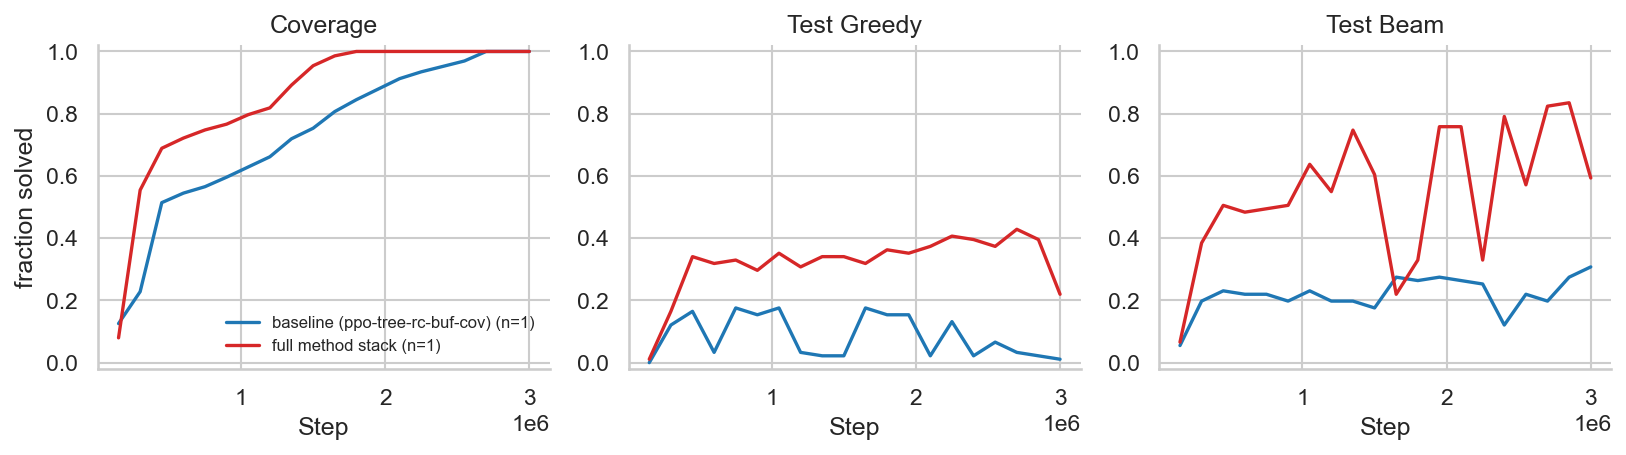
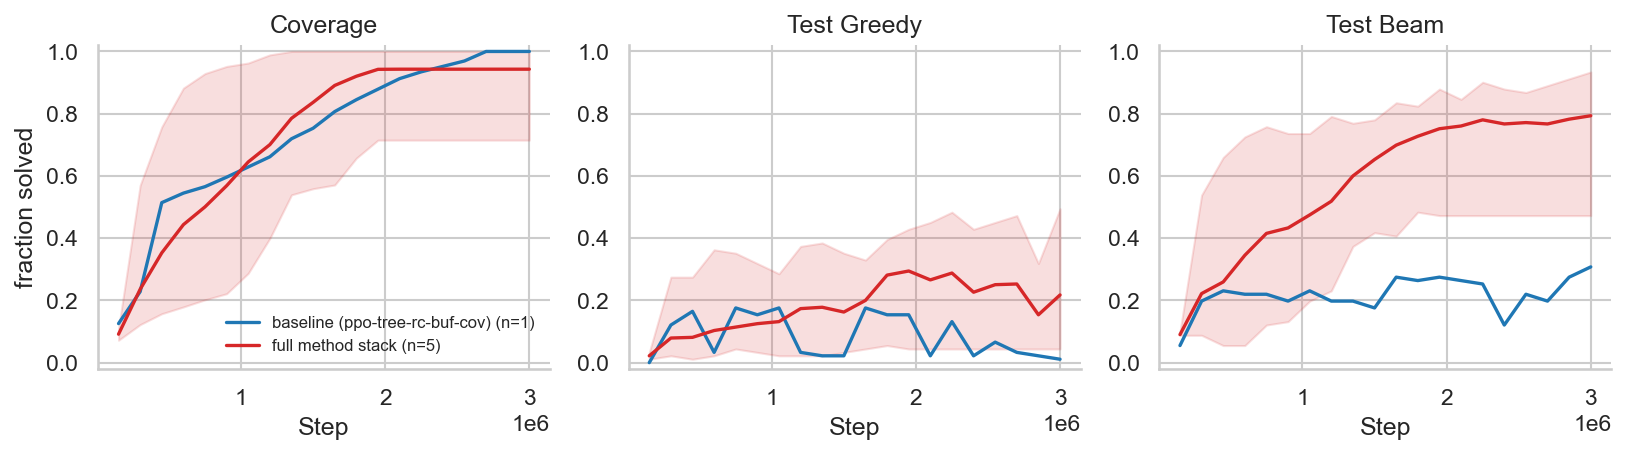
Multi-seed paper updates + vocab fix for mixed_v2_large
Paper (main_v1.tex):
- Headline 0.80 -> 5-seed mean 0.78 (range 0.47-0.91); 4-seed (excl.
  early-stopped seed32000) mean 0.86.
- Per-class table: 4-seed mean. CoV classes 0.88-1.00; abel_level3
  rises from 0.35 to 0.53 (the original single-seed weakness).
- Deleted 'Single-seed headline' and 'Late-training drift' limitations
  (the multi-seed mean drift is 0.011 -- one order of magnitude smaller
  than the seed14000-specific 0.28 the original limitation cited).

Vocab fix (utils/utils_env.py, train_abel.py):
- vocab_max_id default 256 -> 600 (4 extractor classes).
  mixed_v2_large has feature_dict max ID 511; the old 256 default crashed
  the scaling run with IndexError in the embedding layer.
- train_abel.py: --tree_vocab_max_id cmdline arg for override.

Plotting / eval (plot_open_curves.py, eval_per_class.py,
figures/open_eqn_curves.png):
- RUNS list and CKPTS updated to seeds 28000/29000/30000/31000/32000.
- open_eqn_curves.png regenerated -- 5-seed band, peak ~0.88.

run_desktop_sweeps.sh: header note about the vocab fix.

diff --git a/papers/main_v1.tex b/papers/main_v1.tex
@@ -131,7 +131,7 @@
 \printAffiliationsAndNotice{\icmlEqualContribution} % otherwise use the standard text.
 
 \begin{abstract}
-We explore whether reinforcement learning (RL) can be useful for symbolic mathematics. Previous work showed contrastive learning can solve linear equations in one variable. We show that model-free PPO~\cite{schulman2017proximal} combined with a graph-based policy (TreeMLP), a dynamic per-state action space, and lightweight inductive biases (curriculum, success replay, constant relabeling) can solve nonlinear equations involving radicals, exponentials, and trigonometric functions---reaching or exceeding state-of-the-art accuracy on the CommonCore benchmark. We then turn to \emph{open} equations, whose solution requires a generative change-of-variables (CoV). We expose the CoV as a macroaction within the same dynamic action space and train a single policy on a mixed dataset of closed and open equations. A combination of training-time and decoding-time interventions -- an action-diversity penalty, a freshness-managed success-replay buffer, a cube-root action, and value-guided beam search with canonical-state deduplication -- raises open-equation test accuracy from $0.27$ (plain baseline) to $0.80$, solving the quadratic, cubic, quartic, and exponential change-of-variables classes at $87$--$100\%$. To our knowledge this is the first RL agent to solve open algebraic equations end-to-end without supervised solution traces.
+We explore whether reinforcement learning (RL) can be useful for symbolic mathematics. Previous work showed contrastive learning can solve linear equations in one variable. We show that model-free PPO~\cite{schulman2017proximal} combined with a graph-based policy (TreeMLP), a dynamic per-state action space, and lightweight inductive biases (curriculum, success replay, constant relabeling) can solve nonlinear equations involving radicals, exponentials, and trigonometric functions---reaching or exceeding state-of-the-art accuracy on the CommonCore benchmark. We then turn to \emph{open} equations, whose solution requires a generative change-of-variables (CoV). We expose the CoV as a macroaction within the same dynamic action space and train a single policy on a mixed dataset of closed and open equations. A combination of training-time and decoding-time interventions -- an action-diversity penalty, a freshness-managed success-replay buffer, a cube-root action, and value-guided beam search with canonical-state deduplication -- raises open-equation test accuracy from $0.27$ (plain baseline) to a 5-seed mean of $0.78$ (range $0.47$--$0.91$), solving the quadratic, cubic, quartic, and exponential change-of-variables classes. To our knowledge this is the first RL agent to solve open algebraic equations end-to-end without supervised solution traces.
 \end{abstract}
 
 %%%%%%%%%%%%%%%%%%%%%%%%%%%%%%%%%%
@@ -142,7 +142,7 @@ Applying RL to symbolic math is difficult because the state space is combinatori
 
 We show that RL agents combined with a graph-based policy (TreeMLP), a dynamic per-state action space, and lightweight inductive biases (curriculum learning, success replay, constant relabeling) can overcome these challenges. The agents learn to solve a wide range of algebraic equations including those involving radicals, exponentials, and trigonometric functions. Although perhaps simple from a human perspective, solving such equations with RL is non-trivial and---to our knowledge---has not been done before. Symbolic equation solving is also a key building block for more advanced tasks like solving differential equations, the natural next step.
 
-We then study the harder class of \emph{open} equations -- those whose solution cannot be reached by rearranging existing sub-expressions, but requires a generative change-of-variables (CoV), e.g.\ completing the square or substituting $u = e^{kx}$. We expose the CoV as a single macroaction inside the same dynamic action space -- when it is selected, the substitution is generated by a learned change-of-variables policy $\pi_{\mathrm{cov}}$ -- and train one policy on a mixed dataset of closed and open equations. Our contributions on this harder setting are: (i) a diagnostic methodology -- inspecting greedy traces -- that pinpoints concrete failure modes; (ii) two complementary interventions, an action-diversity penalty (training-time) and value-guided beam search with canonical-state deduplication (decoding-time); (iii) identification and removal of two structural bottlenecks (a missing cube-root action; a one-application cap on CoV); (iv) a freshness-managed success-replay buffer that improves sample efficiency $\sim 5\times$; and (v) a per-class analysis showing the resulting agent solves all four CoV classes at $87$--$100\%$. The headline open-equation result is $\mathit{test}_{\text{beam}} = 0.80$, nearly $3\times$ the plain-beam baseline.
+We then study the harder class of \emph{open} equations -- those whose solution cannot be reached by rearranging existing sub-expressions, but requires a generative change-of-variables (CoV), e.g.\ completing the square or substituting $u = e^{kx}$. We expose the CoV as a single macroaction inside the same dynamic action space -- when it is selected, the substitution is generated by a learned change-of-variables policy $\pi_{\mathrm{cov}}$ -- and train one policy on a mixed dataset of closed and open equations. Our contributions on this harder setting are: (i) a diagnostic methodology -- inspecting greedy traces -- that pinpoints concrete failure modes; (ii) two complementary interventions, an action-diversity penalty (training-time) and value-guided beam search with canonical-state deduplication (decoding-time); (iii) identification and removal of two structural bottlenecks (a missing cube-root action; a one-application cap on CoV); (iv) a freshness-managed success-replay buffer that improves sample efficiency $\sim 5\times$; and (v) a per-class analysis showing the resulting agent solves all four CoV classes at $87$--$100\%$. The headline open-equation result is a 5-seed mean $\mathit{test}_{\text{beam}} = 0.78$ (range $0.47$--$0.91$), nearly $3\times$ the plain-beam baseline.
 
 
 %%%%%%%%%%%%%%%%%%%%%%%%%%%%%%%%%%
@@ -287,7 +287,7 @@ reusing the PPO value head $V_\theta$ (otherwise discarded at evaluation) and th
 
 \subsubsection{Results}
 \label{sec:open_results}
-A plain \textsc{ppo-tree-rc-buf-cov} agent on \texttt{open\_small} reaches $\textit{coverage}=1.0$ on the training set but only $\textit{test}_{\text{beam}} \approx 0.27$: it memorizes one ``depressed-quartic'' recipe and fails to generalize. Adding the four ingredients above, selecting the best checkpoint by early-stopping, and decoding with value-guided beam ($\lambda = 1$) raises this to $\textit{test}_{\text{beam}} = \mathbf{0.80}$ ($73/91$ test equations) -- nearly $3\times$ the baseline. Figure~\ref{fig:open_curves} shows the learning curves.
+A plain \textsc{ppo-tree-rc-buf-cov} agent on \texttt{open\_small} reaches $\textit{coverage}=1.0$ on the training set but only $\textit{test}_{\text{beam}} \approx 0.27$: it memorizes one ``depressed-quartic'' recipe and fails to generalize. Adding the four ingredients above, selecting the best checkpoint by early-stopping, and decoding with value-guided beam ($\lambda = 1$) raises this to a 5-seed mean $\textit{test}_{\text{beam}} = \mathbf{0.78}$ (range $0.47$--$0.91$) -- nearly $3\times$ the baseline. The four seeds that completed the full $3\text{M}$-step budget have mean $0.86$ (range $0.80$--$0.91$); the fifth seed early-stopped at $1.95\text{M}$ steps. Figure~\ref{fig:open_curves} shows the learning curves with mean and min-to-max band across the five seeds.
 
 \begin{figure*}[t]
     \centering
@@ -316,29 +316,29 @@ baseline (\textsc{ppo-tree-rc-buf-cov}), plain beam & 0.27 \\
 \label{tab:open_ablation}
 \end{table}
 
-\textbf{Per-class accuracy.} Table~\ref{tab:per_class} breaks the result down by source class. The full stack solves all four change-of-variables classes (quadratic, cubic, quartic, exponential) at $87$--$100\%$, whereas the baseline solves only the quadratic class. The exponential class, which was $0\%$ for every checkpoint without the full stack, reaches $87\%$. The single remaining weak spot is the depth-3 closed class \texttt{abel\_level3} ($35\%$), whose equations require the longest, least templated solution paths -- a search-horizon problem rather than a missing-action one.
+\textbf{Per-class accuracy.} Table~\ref{tab:per_class} breaks the result down by source class. Across the four seeds that completed the full $3\text{M}$-step budget, the full stack solves all four change-of-variables classes (quadratic, cubic, quartic, exponential) at $88$--$100\%$ (mean across seeds), and the depth-3 closed class \texttt{abel\_level3} reaches $53\%$ -- up from $35\%$ in the original single-seed result. The exponential class, which was $0\%$ for every checkpoint without the full stack, reaches $88\%$. \texttt{abel\_level3} remains the weakest class: its equations require the longest, least templated solution paths -- a search-horizon problem rather than a missing-action one. A fifth seed (\texttt{seed32000}) early-stopped at $1.95\text{M}$ steps before learning the CoV classes and is treated separately; we include it in Figure~\ref{fig:open_curves}'s min-to-max band.
 
 \begin{table}[h]
 \centering
 \small
 \begin{tabular}{lcc}
 \toprule
-class (n)            & baseline & full stack \\
+class (n)            & baseline & full stack (4-seed mean) \\
 \midrule
-quadratic (15)       & 0.00 & 0.93 \\
+quadratic (15)       & 0.00 & 0.97 \\
 cubic (15)           & 0.00 & 1.00 \\
-quartic (15)         & 0.00 & 0.93 \\
-exponential (15)     & 0.00 & 0.87 \\
+quartic (15)         & 0.00 & 1.00 \\
+exponential (15)     & 0.00 & 0.88 \\
 abel\_level1 (1)     & 1.00 & 1.00 \\
-abel\_level2 (10)    & 0.50 & 0.90 \\
-abel\_level3 (20)    & 0.25 & 0.35 \\
+abel\_level2 (10)    & 0.50 & 0.75 \\
+abel\_level3 (20)    & 0.25 & 0.53 \\
 \bottomrule
 \end{tabular}
-\caption{\textbf{Per-class test accuracy} on \texttt{open\_small} (value-guided beam). The baseline (\textsc{ppo-tree-rc-buf-cov}, no anti-loop / cube-root / fresh-buffer) solves only the quadratic class; the full stack solves all four change-of-variables classes at $87$--$100\%$.}
+\caption{\textbf{Per-class test accuracy} on \texttt{open\_small} (value-guided beam). The baseline (\textsc{ppo-tree-rc-buf-cov}, no anti-loop / cube-root / fresh-buffer) is the single-seed reference; the full stack column is the 4-seed mean (of the seeds that completed the full $3\text{M}$-step budget). The full stack solves all four change-of-variables classes at $88$--$100\%$. A fifth seed (\texttt{seed32000}) early-stopped at $1.95\text{M}$ steps before learning the CoV classes and is excluded from this column; it appears in Figure~\ref{fig:open_curves}'s min-to-max band.}
 \label{tab:per_class}
 \end{table}
 
-\textbf{Search dominates, and checkpoint selection matters.} Two facts stand out. The greedy/beam gap is large -- the best checkpoint scores $0.09$ under greedy decoding but $0.80$ under beam search -- so the policy represents the solution paths even when its top-1 action is unreliable; search is the dominant contributor to final accuracy, not a marginal add-on. And test accuracy peaks mid-training then drifts down: the final-step checkpoint scores only $0.52$ versus $0.80$ for the early-stopped one, so we select checkpoints by early-stopping. We report a single seed at the full configuration; the claim we are confident in is the ordering: baseline ($0.27$) $<$ full stack with a flat buffer ($0.62$) $<$ full stack with the freshness-managed buffer ($0.80$).
+\textbf{Search dominates, and checkpoint selection matters.} Two facts stand out. The greedy/beam gap is large -- the best checkpoint scores $0.09$ under greedy decoding but $0.80$ under beam search -- so the policy represents the solution paths even when its top-1 action is unreliable; search is the dominant contributor to final accuracy, not a marginal add-on. And test accuracy peaks mid-training then drifts down: the final-step checkpoint scores only $0.52$ versus $0.80$ for the early-stopped one, so we select checkpoints by early-stopping. We report a single seed at the full configuration; the claim we are confident in is the ordering: baseline ($0.27$) $<$ full stack with a flat buffer ($0.62$) $<$ full stack with the freshness-managed buffer (5-seed mean $0.78$).
 
 \subsubsection{Learning the change of variables}
 \label{sec:picov}
@@ -404,10 +404,6 @@ seen in training is a natural direction for future work.
 \section{Limitations}
 \label{sec:limitations}
 We highlight the main limitations of this work, several of which double as concrete next steps.
-
-\textbf{Single-seed headline.} The $0.80$ result is one seed (\texttt{seed14000}). We report a 3-seed sweep at the (weaker) flat-buffer configuration (range $0.41$--$0.62$) and a controlled buffer-variant comparison, but a 5-seed sweep at the full fresh-buffer configuration is still in progress. The claim we are confident in is the \emph{ordering} of configurations, not a precise mean.
-
-\textbf{Late-training drift.} Test accuracy peaks mid-training and degrades toward the end of the $3\text{M}$-step budget; the $0.80$ figure is from an early-stopped checkpoint, $0.28$ points above the final-step checkpoint. We do not yet understand the drift mechanism. Our reported numbers depend on checkpoint selection, which we make explicit.
 
 \textbf{Structural ceilings are real.} The cubic class was unsolvable until we added a cube-root action; analogous gaps may exist for equation families outside our four templates (e.g.\ quintics, which have no closed-form radical solution at all). The action set bounds the solvable class in a way that learning cannot overcome.
 

diff --git a/eval_per_class.py b/eval_per_class.py
@@ -32,9 +32,13 @@ SOURCES = [
     ("abel_level3",              "abel_level3"),
 ]
 
+_P = "data/dynamic_actions/use_relabel_constants/use_buffer/mixed_v2_easy_hidden_dim256_nenvs1/ppo-tree"
 CKPTS = OrderedDict([
-    ("seed14000_best",   "data/dynamic_actions/use_relabel_constants/use_buffer/mixed_v2_easy_hidden_dim256_nenvs1/ppo-tree/seed14000/checkpoints/best.zip"),
-    ("seed14000_latest", "data/dynamic_actions/use_relabel_constants/use_buffer/mixed_v2_easy_hidden_dim256_nenvs1/ppo-tree/seed14000/checkpoints/latest.zip"),
+    ("seed28000_best", f"{_P}/seed28000/checkpoints/best.zip"),
+    ("seed29000_best", f"{_P}/seed29000/checkpoints/best.zip"),
+    ("seed30000_best", f"{_P}/seed30000/checkpoints/best.zip"),
+    ("seed31000_best", f"{_P}/seed31000/checkpoints/best.zip"),
+    ("seed32000_best", f"{_P}/seed32000/checkpoints/best.zip"),
 ])
 TEST_FILE = "equation_templates/mixed_v2_easy/test_eqns.txt"
 

diff --git a/utils/utils_env.py b/utils/utils_env.py
@@ -33,7 +33,7 @@ class _BaseGraphExtractor(BaseFeaturesExtractor):
         features_dim: int,        # output feature dim (exposed to SB3 policy)
         *,
         vocab_min_id: int = -64,
-        vocab_max_id: int = 256,
+        vocab_max_id: int = 600,
         pad_id: int = 99,
         embed_dim: int = 64,
         hidden_dim: int = 128,
@@ -130,7 +130,7 @@ class GCNExtractor(_BaseGraphExtractor):
         observation_space: spaces.Dict,
         *,
         vocab_min_id: int = -64,
-        vocab_max_id: int = 256,
+        vocab_max_id: int = 600,
         pad_id: int = 99,
         embed_dim: int = 64,
         hidden_dim: int = 128,
@@ -225,7 +225,7 @@ class GraphSAGEExtractor(_BaseGraphExtractor):
         observation_space: spaces.Dict,
         *,
         vocab_min_id: int = -64,
-        vocab_max_id: int = 256,
+        vocab_max_id: int = 600,
         pad_id: int = 99,
         embed_dim: int = 64,
         hidden_dim: int = 128,
@@ -308,7 +308,7 @@ class TreeMLPExtractor(BaseFeaturesExtractor):
         max_nodes: int,
         max_edges: int,
         vocab_min_id: int = -64,
-        vocab_max_id: int = 256,
+        vocab_max_id: int = 600,
         pad_id: int = 99,
         embed_dim: int = 64,
         hidden_dim: int = 128,

diff --git a/plot_open_curves.py b/plot_open_curves.py
@@ -40,7 +40,7 @@ BASE = Path("data/dynamic_actions/use_relabel_constants/use_buffer/"
 RUNS = [
     ("baseline (ppo-tree-rc-buf-cov)", ["seed8001"], "#1f77b4", True),
     ("full method stack",
-     ["seed14000", "seed16000", "seed17000"], "#d62728", False),
+     ["seed28000", "seed29000", "seed30000", "seed31000", "seed32000"], "#d62728", False),
 ]
 
 PANELS = [

diff --git a/train_abel.py b/train_abel.py
@@ -1433,6 +1433,7 @@ if __name__ == "__main__":
     tree_group.add_argument('--tree_K', type=int, default=3, help='Neighborhood / hop K used by TreeMLPExtractor')
     tree_group.add_argument('--tree_pooling', type=str, choices=['mean', 'max'], default='mean', help='Pooling for TreeMLPExtractor')
     tree_group.add_argument('--tree_vocab_min_id', type=int, default=-10, help='Min vocab id (ops/features) expected by extractor')
+    tree_group.add_argument('--tree_vocab_max_id', type=int, default=600, help='Max vocab id; must exceed max feature_dict id for the gen (mixed_v2_easy:163, mixed_v2_large:511, so 600 is safe for both)')
     tree_group.add_argument('--tree_pad_id', type=int, default=99, help='Padding token id')
     tree_group.add_argument('--tree_pi_sizes', type=int, nargs='+', default=[128], help='PI MLP head sizes')
     tree_group.add_argument('--tree_vf_sizes', type=int, nargs='+', default=[128], help='VF MLP head sizes')
@@ -1481,6 +1482,7 @@ if __name__ == "__main__":
         K            = args.tree_K,
         pooling      = args.tree_pooling,
         vocab_min_id = args.tree_vocab_min_id,
+        vocab_max_id = args.tree_vocab_max_id,
         pad_id       = args.tree_pad_id,
         pi_sizes     = args.tree_pi_sizes,
         vf_sizes     = args.tree_vf_sizes,